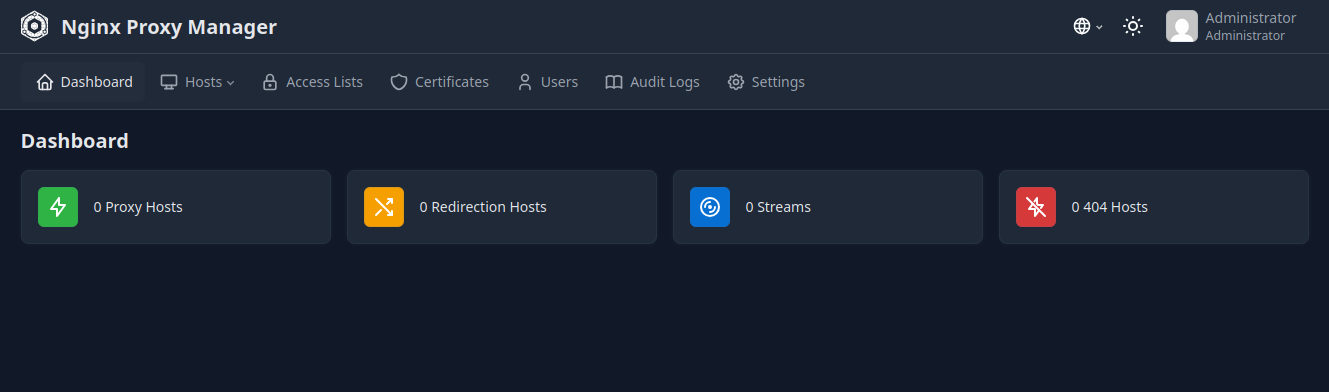
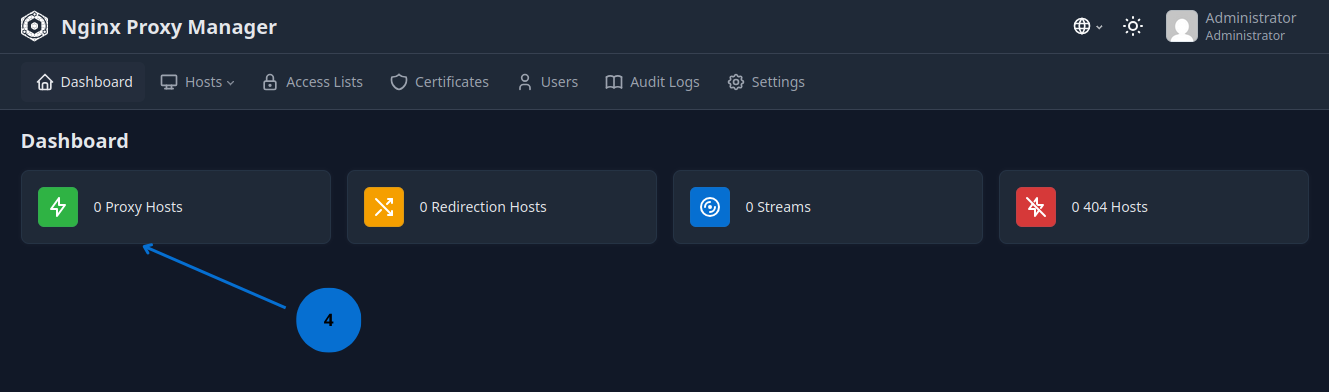
Update NPM documentation

diff --git a/tutorials/nginx-proxy-manager_es.html b/tutorials/nginx-proxy-manager_es.html
@@ -58,89 +58,99 @@
     <main>
         <section class="tutorial-hero">
             <div class="container">
-                <h1 class="tutorial-title">Configuración de acceso con Nginx Proxy Manager</h1>
+                <h1 class="tutorial-title">Configuración de Nginx Proxy Manager (NPM)</h1>
             </div>
         </section>
 
         <section class="tutorial-content">
             <div class="container">
 
-                <p>En esta etapa vas a configurar el acceso externo a tus servicios (Lightning Terminal, LNBits, Cashu, Orchard, etc.) usando <strong>Nginx Proxy Manager</strong>, que actúa como proxy inverso y gestor de certificados SSL.</p>
+                <p>En este paso vamos a configurar el acceso externo a los servicios (Lightning Terminal, LNBits, Cashu y Orchard) usando Nginx Proxy Manager, que actúa como proxy inverso y gestor de certificados SSL.</p>
 
-                <h2>Acceso inicial</h2>
-                <p>El contenedor ya viene preconfigurado, por lo que no necesitas crear un usuario:</p>
-                <ul>
-                    <li><strong>Usuario:</strong> <code>changeme@domin.com</code></li>
-                    <li><strong>Contraseña:</strong> <code>ch4ng3me*-</code></li>
-                </ul>
-                <p>Accede desde tu navegador a la URL o IP donde esté corriendo el contenedor, para nuestro ejemplo usaremos <code>http://npm.cashu4community.xyz:81</code>. Como accedemos por primera vez, lo hacemos usando el puerto 81 y mediante una conexión insegura. En el siguiente paso corregiremos esto.</p>
-                <img src="img/npm-login-page.png" alt="NPM Login Page">
+                <h3>Acceso inicial</h3>
+                <p>El acceso inicial al contenedor de Nginx Proxy Manager (NPM) se realiza a través de HTTP y utilizando el puerto 81. En nuestro ejemplo, accederemos mediante la URL <code>http://npm.cashu4community.xyz:81</code>. En el siguiente paso, modificaremos esta configuración para evitar riesgos de seguridad.</p>
+                <p>El contenedor ya está preconfigurado, así que no se requiere la creación de un usuario en el primer inicio.</p>
 
-                <h2>Crear un Proxy Host</h2>
-                <p>Para crear un <strong>Proxy Host</strong> seleccionamos en el Dashboard la sección Proxy Host como se muestra en la siguiente imagen:</p>
-                <img src="img/npm-dashboard.png" alt="NPM Dashboard">
-
-                <p>Luego hacemos clic en el botón Add Proxy Host</p>
-                <img src="img/npm-add-proxy-host.png" alt="NPM Add Proxy Host">
-
-                <p>Nos aparecerá una ventana donde introduciremos los datos del servicio.</p>
-                <img src="img/npm-add-proxy-host-details.png" alt="NPM Proxy Host Details">
+                <p><em>Imagen 1: Página de Login Nginx Proxy manager.</em></p>
+                <img src="img/npm-login-page.png" alt="Login NPM">
 
                 <ol>
-                    <li><strong>Domain Names</strong> este será el nombre dominio que tendrá la aplicación de cara a internet. Como para este ejemplo estamos configurando el acceso al NPM usaremos el dominio <code>npm.cashu4community.xyz</code>.</li>
-                    <li><strong>Scheme</strong> el esquema es la via por la cual NPM se comunica con la aplicacion que está corriendo en el contenedor puede ser <code>http</code> o <code>https</code>. Para NPM lo dejamos en <code>http</code>.</li>
-                    <li><strong>Forward Hostname / IP</strong> no es mas que el nombre del host interno como se trata de un contenedor de docker lo mejor será usar el nombre del servicio. Para NPM será <code>npm</code>.</li>
-                    <li><strong>Forward Port</strong> es el puerto por el que corre la aplicación internamente en el contenedor de Docker. NPM usa el puerto 81.</li>
-                    <li><strong>Options</strong> Habilitamos todas las opciones para mejorar la seguridad y funcionalidad de la aplicación.</li>
+                    <li>Usuario <code>changeme@domain.com</code></li>
+                    <li>Contraseña <code>ch4ng3m3*-</code></li>
+                    <li>Presionamos <code>Enter</code> o hacemos clic en <code>Sign in</code></li>
                 </ol>
 
-                <p>Pasamos a la pestaña SSL para generar el certificado y habilitar las opciones de seguridad.</p>
-                <img src="img/npm-add-proxy-host-ssl-options.png" alt="NPM SSL Options">
+                <p>Luego de loguearnos pasamos al dashboard del servicio NPM.</p>
 
-                <ol>
-                    <li><strong>SSL Certificate</strong> Seleccionamos en la lista <code>Request new Certificate</code></li>
-                    <li>Habilitamos <code>Force SSl</code>, <code>HTTP/2 Support</code> y <code>HSTS Enabled</code></li>
+                <p><em>Imagen 2: Dashboard del NPM.</em></p>
+                <img src="img/npm-dashboard.png" alt="Dashboard NPM">
+
+                <ol start="4">
+                    <li>Entramos al panel de Proxy Host.</li>
                 </ol>
 
-                <p>Al hacer clic en el botón <code>Save</code> se configura el proxy host y nos aparecerá mostrando el indicador <code>Online</code> en verde, en caso contrario significa que se ha introducido algum dato erroneo o la aplicación no está corriendo.</p>
-                <img src="img/npm-proxy-host-record.png" alt="NPM Proxy Host Record">
+                <h3>3.1 Creando un proxy host para NPM</h3>
+                <p>Como habrás observado, el acceso a NPM se hace vía HTTP (protocolo inseguro) y por el puerto 81, lo que deja nuestro servicio vulnerable a ataques. Para solucionarlo, crearemos un Proxy Host para el propio NPM y así poder operar sobre HTTPS.</p>
 
-                <p>Ya configuramos el Proxy Host para el servicio NPM por lo que ya podemos conectarnos a <code>https://npm.cashu4community.xyz</code> sin usar el puerto 81.</p>
-                <img src="img/npm-login-page-with-ssl.png" alt="NPM Login Page with SSL">
+                <p><em>Imagen 3: Adicionar un Proxy Host.</em></p>
+                <img src="img/npm-add-proxy-host.png" alt="Add Proxy Host">
 
-                <h2>Eliminamos el acceso de NPM por el puerto 81</h2>
-                <p>Ya hemos configurado el Proxy Host para el servicio NPM y ya podemos acceder mediante https usando el puerto 443. Ahora deshabilitaremos el acceso por el puerto 81. Para ello editamos el archivo docker-compose.yml en la raíz del proyecto.</p>
-                <p>Buscamos el servicio npm y en la sección <code>ports:</code> eliminamos el puerto 81.</p>
-<pre><code>    ports:
-      - '80:80' 
-      - '443:443' 
-      - '81:81' </code></pre>
-                <p>Quedando así:</p>
-<pre><code>    ports:
-      - '80:80' 
-      - '443:443' </code></pre>
+                <ol start="5">
+                    <li>Adicionamos un Proxy Host.</li>
+                </ol>
 
-                <p>Para hacer efectivo el cambio solo necesitamos regenerar el contenedor de NPM.</p>
-                <p>Ejecutamos lo siguiente:</p>
-<pre><code>docker-compose up --force-recreate npm -d</code></pre>
+                <p><em>Imagen 4: Opciones de Proxy Host.</em></p>
+                <img src="img/npm-add-proxy-host-details.png" alt="Opciones Proxy Host">
 
-                <p>Si no hubo errores en la edición del archivo yml el proceso debe terminar correctamente. Así que ya podremos acceder al panel de administración de NPM mediante https unicamente.</p>
+                <ol start="6">
+                    <li><code>Domain Names</code> en este campo se introduce el nombre de dominio que tendrá la aplicación de cara a internet. Como estamos configurando el acceso a NPM usaremos el dominio <code>npm.cashu4community.xyz</code>.</li>
+                    <li><code>Scheme</code> el esquema es el protocolo usado por NPM para comunicarse con la aplicación que está corriendo en el contenedor puede ser http o https. Para NPM lo dejamos en http.</li>
+                    <li><code>Forward Hostname / IP</code> no es más que el nombre del host, como se trata de un contenedor de docker lo mejor será usar el nombre del servicio, como estamos configurando NPM usaremos npm. Puede ver la lista completa de los servicios al final de la sección Primeros Pasos.</li>
+                    <li><code>Forward Port</code> es el puerto por el que corre la aplicación internamente en el contenedor de Docker, NPM usa el puerto 81. La lista de puertos la encontrarán al final de este tutorial.</li>
+                    <li><code>Options</code> habilitamos todas las opciones para mejorar la seguridad y funcionalidad de la aplicación.</li>
+                </ol>
+
+                <p><em>Imagen 5: Opciones de Proxy Host opciones SSL.</em></p>
+                <img src="img/npm-add-proxy-host-ssl-options.png" alt="Opciones SSL">
+
+                <ol start="11">
+                    <li>Nos ubicamos en la Pestaña SSL.</li>
+                    <li>Seleccionamos en el menú desplegable la opción <code>Request a new Certificate</code>.</li>
+                    <li>Habilitamos las opciones <code>Force SSL</code>, <code>HTTP/2 Support</code> y <code>HSTS Enabled</code>.</li>
+                    <li>Salvamos los cambios.</li>
+                </ol>
+
+                <p>Tras salvar los cambios podemos ver el registro de NPM en el panel de la sección Proxy Host.</p>
+
+                <p><em>Imagen 6: Registro del servicio NPM en el panel de Proxy Host.</em></p>
+                <img src="img/npm-proxy-host-record.png" alt="Proxy Host Record">
 
                 <div class="tutorial-tip">
-                    <strong>Importante:</strong> Tras entrar vía HTTPS recomiendo cambiar el correo y la contraseña de la cuenta de acceso a NPM, de lo contrario está exponiendo su infraestructura.
+                    <strong>Importante:</strong> Para crear el certificado digital NPM verifica la existencia del dominio DNS, en caso de no existir el proceso falla.
                 </div>
-                <img src="img/npm-proxy-user-menu.png" alt="NPM User Menu">
 
-                <h2>Cómo encaja esto en tu infraestructura</h2>
-                <p>Hasta aquí hemos configurado un registro Proxy Host y el acceso al NPM de forma segura, ahora podemos configurar el resto de los servicios ya que cada uno tendrá su propio Proxy Host en la siguiente tabla se muestran los datos necesarios:</p>
+                <p><em>Imagen 7: Proxy Host correctamente configurado.</em></p>
+                <img src="img/npm-proxy-host-status.png" alt="Proxy Host Status">
+
+                <p>Con NPM ya configurado para acceder vía HTTPS de forma segura, cerramos sesión y volvemos a entrar para seguir con las demás configuraciones.</p>
+
+                <p><em>Imagen 8: Cierre de sesión Menú de usuario.</em></p>
+                <img src="img/npm-proxy-logout.png" alt="Logout">
+
+                <ol start="15">
+                    <li>Cerramos sesión.</li>
+                </ol>
+
+                <h3>3.2 Listado de servicios a configurar en NPM</h3>
+                <p>La tabla siguiente muestra los servicios a configurar en NPM, así como todos los parámetros necesarios para configurarlos. Usaremos el dominio <code>cashu4community.xyz</code> como referencia, cada cual lo adapta a sus dominios personales.</p>
 
                 <table>
                     <thead>
                         <tr>
-                            <th>Dominio</th>
+                            <th>Nombre de Dominio</th>
                             <th>Esquema</th>
-                            <th>Reenvío de dominio / IP</th>
-                            <th>Puerto interno</th>
+                            <th>Servicio Docker</th>
+                            <th>Puerto</th>
                         </tr>
                     </thead>
                     <tbody>
@@ -177,9 +187,125 @@
                     </tbody>
                 </table>
 
-                <div class="tutorial-tip">
-                    <strong>Importante:</strong> Los dominios usados aquí son solo una referencia para poder explicar el proceso de despliegue y puesta a punto de la infraestructura.
-                </div>
+                <p>Una vez que registremos todos los Proxy Host nos quedaría algo como esto:</p>
+
+                <p><em>Imagen 9: Listado de los servicios de la Infraestructura en NPM.</em></p>
+                <img src="img/npm-proxy-host-list.png" alt="Proxy Host List">
+
+                <h3>3.3 Actualizando los datos de la cuenta de acceso</h3>
+                <p>Como mencionamos al principio de este tutorial, el servicio de NPM viene preconfigurado con una cuenta de usuario genérica. Para evitar accesos no deseados en nuestra infraestructura, es obligatorio cambiar esta cuenta. Para ello, accedemos al menú de usuario.</p>
+
+                <p><em>Imagen 9: Menú de usuario Edición del Perfil.</em></p>
+                <img src="img/npm-user-menu-edit-profile.png" alt="User Menu Edit Profile">
+
+                <ol>
+                    <li>Hacemos clic en <code>Edit Profile</code> para cambiar la dirección de correo que usamos para iniciar sesión.</li>
+                </ol>
+
+                <p><em>Imagen 10: Cambio de nombre de usuario y correo electrónico.</em></p>
+                <img src="img/npm-change-email.png" alt="Change Email">
+
+                <ol start="2">
+                    <li>Actualizamos los datos del campo <code>Email address</code> con nuestro correo.</li>
+                    <li>Salvamos los cambios.</li>
+                </ol>
+
+                <p><em>Imagen 11: Menú de usuario cambio de contraseña.</em></p>
+                <img src="img/npm-user-menu-change-passwd.png" alt="User Menu Change Password">
+
+                <ol start="4">
+                    <li>Hacemos clic en <code>Change Password</code> para cambiar la contraseña actual.</li>
+                </ol>
+
+                <p><em>Imagen 12: Cambio de contraseña del usuario actual.</em></p>
+                <img src="img/npm-change-password.png" alt="Change Password">
+
+                <ol start="5">
+                    <li>Introducimos la contraseña actual.</li>
+                    <li>Introducimos la contraseña nueva y la confirmamos.</li>
+                    <li>Salvamos los cambios.</li>
+                </ol>
+
+                <p><em>Imagen 13: Menú de usuario doble factor de autenticación.</em></p>
+                <img src="img/npm-user-menu-2fa.png" alt="User Menu 2FA">
+
+                <ol start="8">
+                    <li>Hacemos clic en <code>Two-Factor Auth</code> (recomendado activarlo si se quiere un plus de seguridad).</li>
+                </ol>
+
+                <p><em>Imagen 14: Habilitar 2FA en el sistema NPM.</em></p>
+                <img src="img/npm-2fa-enable.png" alt="Enable 2FA">
+
+                <ol start="9">
+                    <li>Hacemos clic en el botón Habilitar doble factor de autenticación.</li>
+                </ol>
+
+                <p><em>Imagen 15: Habilitar 2FA mediante QR con código de verificación.</em></p>
+                <img src="img/npm-qr-code-2fa.png" alt="QR Code 2FA">
+
+                <ol start="10">
+                    <li>Escaneamos el QR con la aplicación <a href="https://play.google.com/store/apps/details?id=com.twofasapp&hl=es" target="_blank">2FA Authenticator</a> pueden usar otras como  <a href="https://play.google.com/store/search?q=authy&c=apps&hl=es" target="_blank">Authy</a> para este paso.</li>
+                    <li>Si no es posible escanear el QR copie el código directamente en la aplicacion 2FA.</li>
+                    <li>Pegue el código de 6 dígitos que genera la aplicación de 2FA.</li>
+                    <li>Verificamos.</li>
+                </ol>
+
+                <p>Si falla la verificación puede deberse a que el código de 6 dígitos expiró, intente de nuevo. El siguiente paso será mostrarnos los códigos de recuperación necesarios en caso de que perdamos el código 2FA o la aplicación se nos desinstale.</p>
+
+                <p><em>Imagen 16: Códigos de recuperación 2FA.</em></p>
+                <img src="img/npm-2fa-recovery-code.png" alt="Recovery Code">
+
+                <ol start="14">
+                    <li>Copiamos los códigos de recuperación y confirmamos.</li>
+                </ol>
+
+                <p><em>Imagen 17: Opciones 2FA.</em></p>
+                <img src="img/npm-2fa-options.png" alt="2FA Options">
+
+                <ol start="15">
+                    <li>Hacemos clic aquí si queremos deshabilitar el 2FA.</li>
+                    <li>Hacemos clic aquí si queremos nuevos códigos de recuperación.</li>
+                </ol>
+
+                <h3>3.4 Eliminando acceso hacia NPM por el puerto 81</h3>
+                <p>Ya confiramos el acceso seguro a NPM y actualizamos las credenciales de la cuenta <code>administrador</code>. Ahora vamos a deshabilitar el acceso hacia NPM por el puerto 81. Para ello editamos el archivo docker-compose.yml ubicado en <code>cashu4cs-deploy</code>.</p>
+<pre><code>nano docker-compose.yml</code></pre>
+
+                <p>Buscamos el servicio NPM que comienza con la línea <code>npm:</code> y eliminamos la línea <code>- '81:81'</code> de <code>ports:</code></p>
+<pre><code> npm:
+    image: jc21/nginx-proxy-manager:latest
+    container_name: nginx_proxy_manager
+    restart: unless-stopped
+    ports:
+      - '80:80' 
+      - '443:443' 
+      - '81:81' 
+    environment:
+      - DB_SQLITE_FILE:"/data/database.sqlite"
+      - DISABLE_IPV6:'true'
+    volumes:
+      - ./app-data/npm/data:/data
+      - ./app-data/npm/letsencrypt:/etc/letsencrypt</code></pre>
+
+                <p>Servicio NPM sin el puerto 81.</p>
+<pre><code> npm:
+    image: jc21/nginx-proxy-manager:latest
+    container_name: nginx_proxy_manager
+    restart: unless-stopped
+    ports:
+      - '80:80' 
+      - '443:443' 
+    environment:
+      - DB_SQLITE_FILE:"/data/database.sqlite"
+      - DISABLE_IPV6:'true'
+    volumes:
+      - ./app-data/npm/data:/data
+      - ./app-data/npm/letsencrypt:/etc/letsencrypt</code></pre>
+
+                <p>Salvamos y salimos del archivo <code>ctrl+s</code> y <code>ctrl+x</code></p>
+
+                <p>Y por último recreamos el contenedor del servicio NPM para que los cambio sean efectivos, ejecutamos:</p>
+<pre><code>docker-compose up --force-recreate npm -d</code></pre>
 
                 <div class="tutorial-nav">
                     <a href="lightning-network-daemon_es.html" class="nav-prev">
